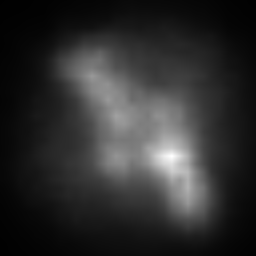
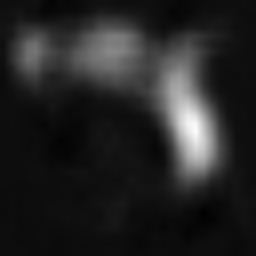
commit

diff --git a/point_loss/main_selected10.py b/point_loss/main_selected10.py
@@ -91,7 +91,6 @@ def train(epoch, train_loader, AVG_Loss):
 
 def train2(epoch, train_loader):
     model.train()
-    heatmap_model.eval()
     train_loss = 0
     correct = 0
     total = 0
@@ -167,7 +166,7 @@ def test(epoch, best_acc, test_loader, mode):
 #data selection---------------------------------------------------------------------
 def select(AVG_Loss, K=150, mode='loss'):
     new_selected = torch.topk(AVG_Loss, K, dim=-1)
-    return new_selected.numpy()
+    return new_selected[1].numpy()
 
 #-----------------------------------------------------------------------------------
 if __name__ == "__main__":
@@ -222,7 +221,6 @@ if __name__ == "__main__":
     # selected, unselected = select(episode, unselected, selected, train_loader, K=1500, mode='random')
     selected = select(AVG_Loss, K=1500)
     print('selected : ',len(selected))
-    selected = selected.tolist()
     # print(selected)
     
     model_optimizer = optim.SGD(model.parameters(), lr=args.lr)
@@ -245,7 +243,9 @@ if __name__ == "__main__":
     #------------------------------------------------------------------------------
     best_acc = 0
     para_list = os.listdir(save_path)
-    best_para = para_list[-1]
+    base_list = [path for path in para_list if 'tuning' in path]
+    base_list.sort(key=lambda x : int(x.split('_')[1]))
+    best_para = base_list[-1]
     print(best_para)
     model_para = torch.load(os.path.join(save_path,best_para))
     model.load_state_dict(model_para['model'])

diff --git a/point_loss/main_random10.py b/point_loss/main_random10.py
@@ -218,8 +218,8 @@ if __name__ == "__main__":
     
     print("Select targets for supervision --------------------------------------")
     # selected, unselected = select(episode, unselected, selected, train_loader, K=1500, mode='random')
-    selected [i for i in range(len(trainset))]
-    selected = random.shuffle(selected)
+    selected = [i for i in range(len(trainset))]
+    random.shuffle(selected)
     selected = selected[:1500]
     print('selected : ',len(selected))
     selected = selected.tolist()
@@ -245,7 +245,9 @@ if __name__ == "__main__":
     #------------------------------------------------------------------------------
     best_acc = 0
     para_list = os.listdir(save_path)
-    best_para = para_list[-1]
+    base_list = [path for path in para_list if 'tuning' in path]
+    base_list.sort(key=lambda x : int(x.split('_')[1]))
+    best_para = base_list[-1]
     print(best_para)
     model_para = torch.load(os.path.join(save_path,best_para))
     model.load_state_dict(model_para['model'])

diff --git a/point_loss/img_save.py b/point_loss/img_save.py
@@ -8,7 +8,7 @@ import numpy as np
 from resnet import *
 from PIL import Image
 
-torch.random.manual_seed(20230250)
+torch.random.manual_seed(20230239)
 
 os.environ["CUDA_VISIBLE_DEVICES"] = '7'
 data_path = '/home/yunjae_heo/SSD/yunjae.heo/ILSVRC'
@@ -102,7 +102,8 @@ for idx, (images, labels, heatmaps, img_id) in enumerate(pbar):
     
     new_attention = new_attention - torch.min(new_attention)
     new_attention = new_attention/torch.max(new_attention)
-    # new_attention = pred_hmap
+    new_attention = pred_hmap
+
     new_img = new_attention*images2
     new_counter = (1-new_attention)*images2
     
